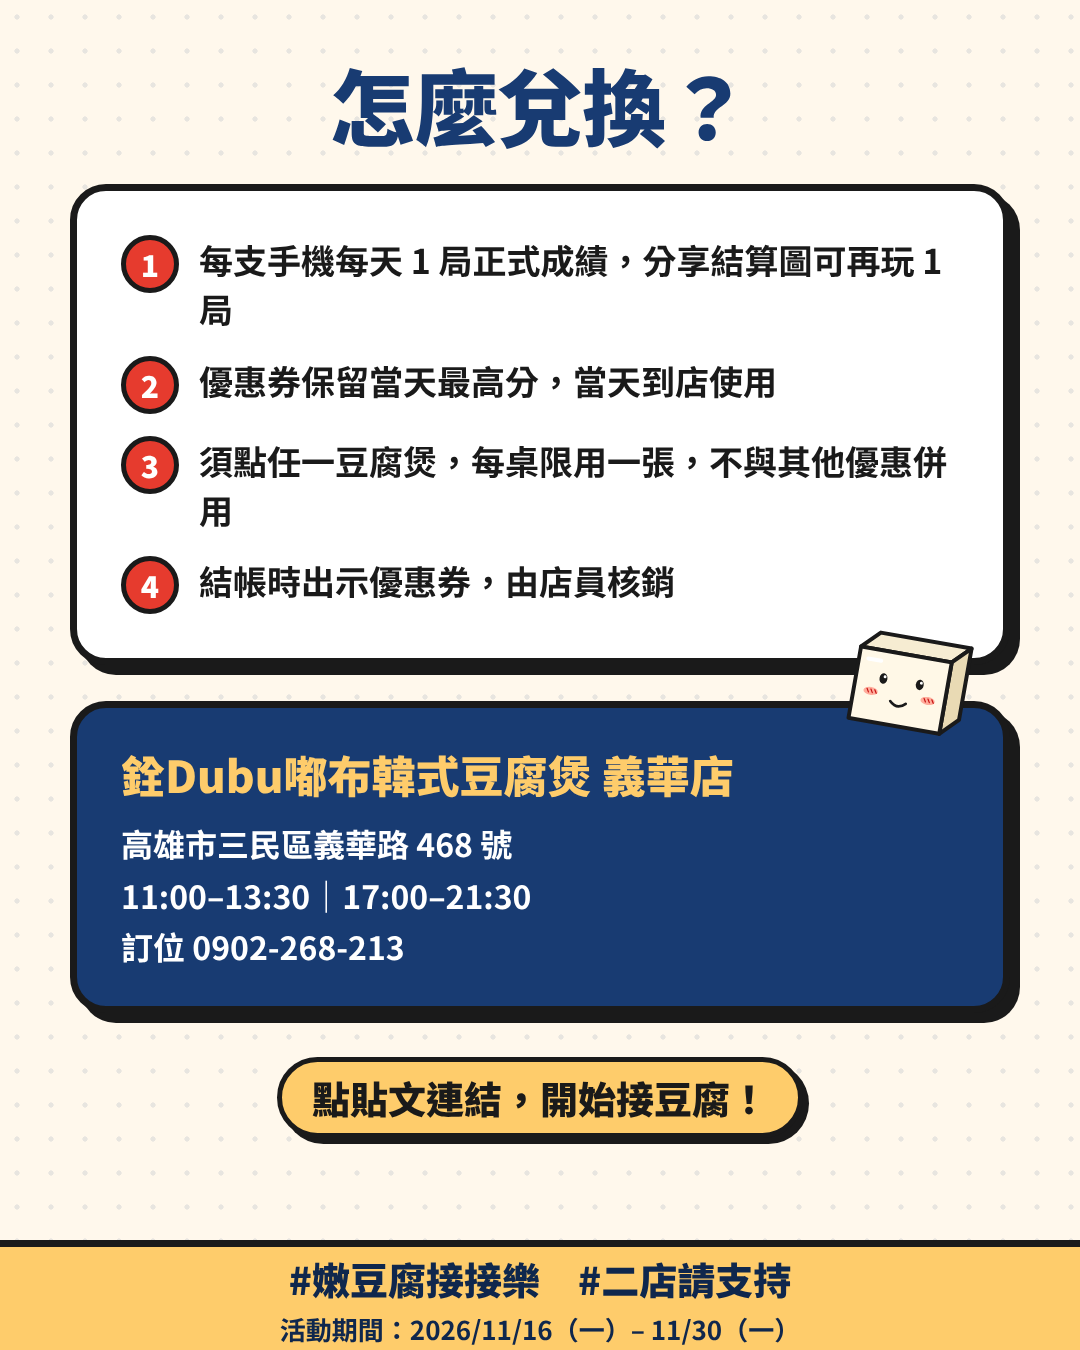
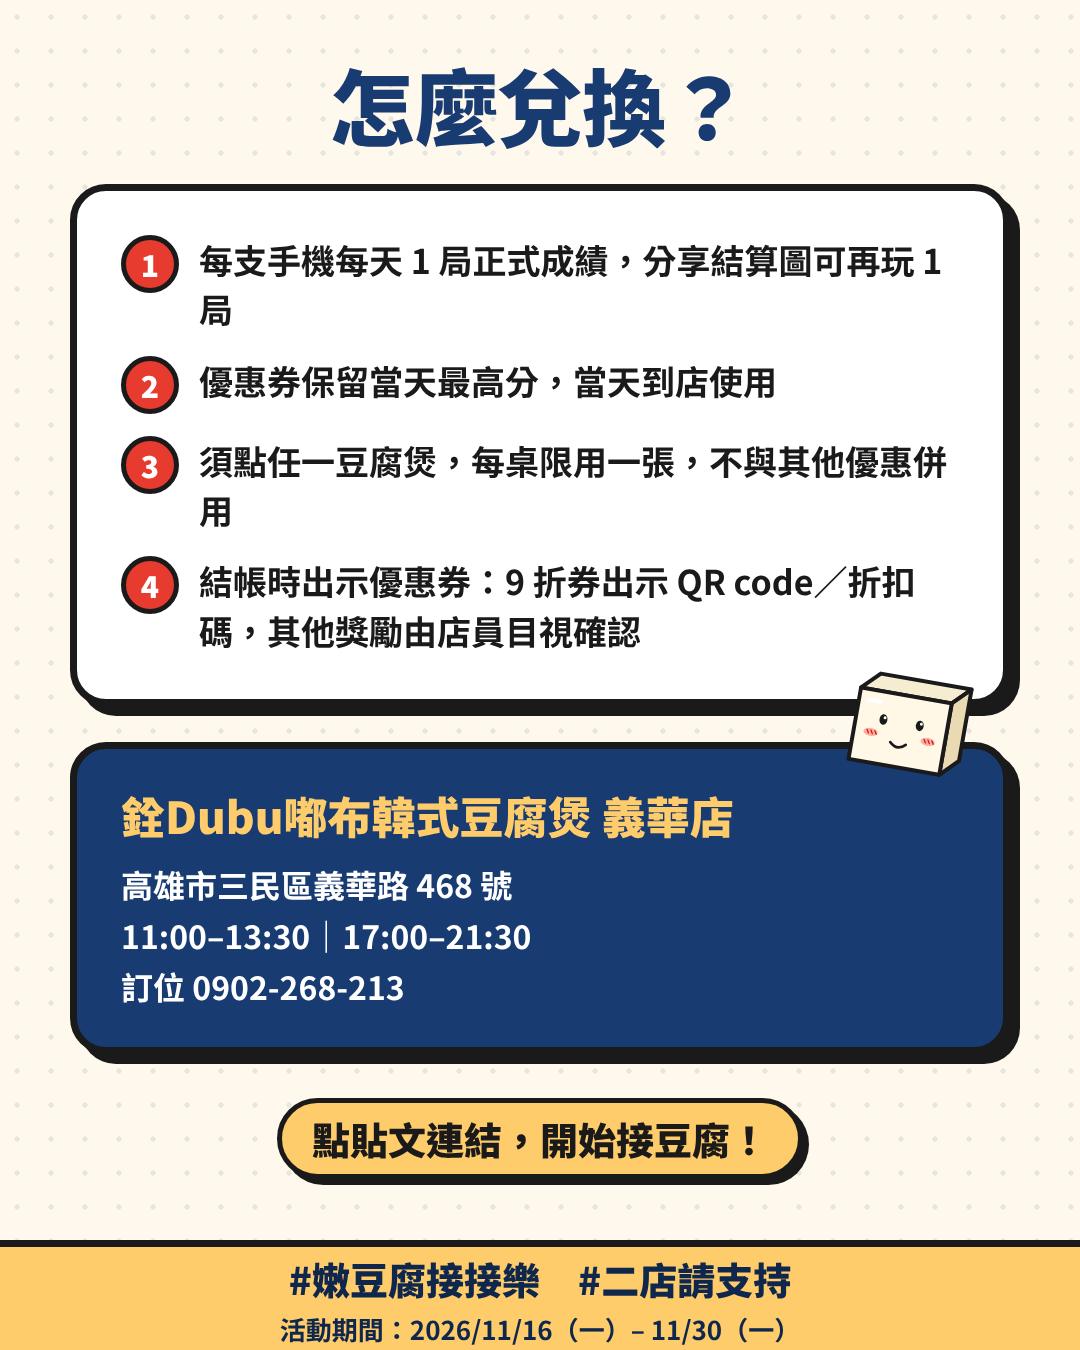
嫩豆腐接接樂：最高獎勵門檻改 1700；9 折券顯示 QR＋折扣碼，其餘級距只顯示獎勵品項
Claude-Session: https://claude.ai/code/session_01R1Sp5wUzmXaVmecPxoYTsS

Changed region(s): [[0.0611, 0.4044, 0.9472, 0.9022]]

diff --git a/tofu-catch/index.html b/tofu-catch/index.html
@@ -163,6 +163,8 @@ canvas{position:absolute;left:0;top:0;width:390px;height:844px;display:block}
 .cp .in{border:3px dashed var(--ring-cream);border-radius:var(--radius-md);padding:18px 12px}
 .cp .t{font:700 14px "Noto Sans TC";color:var(--gold-100)}
 .cp .r{font:900 28px/1.25 "Noto Sans TC";color:var(--gold-400);margin:8px 0}
+.cp .verify{display:inline-block;background:var(--ink);color:#fff;border-radius:999px;padding:6px 14px;font:700 14px "Noto Sans TC";margin:10px 0}
+.cp.item .r{font-size:30px}
 .cp .code{display:inline-block;background:#fff;color:var(--ink);border:3px solid var(--ink);border-radius:var(--radius-md);padding:6px 18px;font:900 26px "Noto Sans TC";letter-spacing:.12em;margin:10px 0}
 .cp .qr{display:flex;flex-direction:column;align-items:center;gap:6px;margin:4px 0 10px}.cp .qr img{width:150px;height:150px;background:#fff;border:3px solid var(--ink);border-radius:10px;padding:4px}.cp .qr span{font:700 12px 'Noto Sans TC';color:var(--gold-100)}
 .cp .cap{font:700 12px/1.5 "Noto Sans TC";color:var(--gold-100)}
@@ -232,8 +234,8 @@ canvas{position:absolute;left:0;top:0;width:390px;height:844px;display:block}
       <div><img data-sprite="item-egg" alt=""><span>生雞蛋 <b>0</b><br>蛋液擋畫面 3 秒</span></div>
     </div></div>
     <div class="rbox"><h3>獎勵</h3><table class="tiers">
-      <tr><td>1800 分以上</td><td>義華路豆腐之神｜豆腐煲主餐 9 折（折扣碼）</td></tr>
-      <tr><td>1000–1799 分</td><td>嫩豆腐守護者｜手工小菜兌換一份</td></tr>
+      <tr><td>1700 分以上</td><td>義華路豆腐之神｜豆腐煲主餐 9 折（QR code＋折扣碼）</td></tr>
+      <tr><td>1000–1699 分</td><td>嫩豆腐守護者｜手工小菜兌換一份</td></tr>
       <tr><td>500–999 分</td><td>實習接豆工｜韓國拉麵加購免費</td></tr>
       <tr><td>0–499 分</td><td>豆腐殺手｜韓國拉麵加購免費＋老闆手寫道歉信</td></tr>
     </table></div>
@@ -289,6 +291,7 @@ canvas{position:absolute;left:0;top:0;width:390px;height:844px;display:block}
         <div class="r" id="cpReward">—</div>
         <div class="t" id="cpRank">—</div>
         <div class="code" id="cpCode">——————</div>
+        <div class="verify hidden" id="cpVerify">店員目視確認獎勵品項即可兌換</div>
         <div id="cpQr" class="qr hidden"><img alt="9 折折扣碼 QR code" id="cpQrImg"><span>結帳時出示，店員掃描或輸入折扣碼</span></div>
         <div class="cap">限義華店｜須點任一豆腐煲｜每桌限用一張<br>高雄市三民區義華路 468 號<br>11:00–13:30、17:00–21:30</div>
       </div>
@@ -461,7 +464,7 @@ const LINES = {
   cheer: ['대박!', '맛있다!', '오오오!'],
 };
 const RANKS = [
-  {min: 1800, name: '義華路豆腐之神', sub: '你的手比嫩豆腐還溫柔。', reward: '豆腐煲主餐 9 折', img: 'tofu-perfect', fixedCode: true},
+  {min: 1700, name: '義華路豆腐之神', sub: '你的手比嫩豆腐還溫柔。', reward: '豆腐煲主餐 9 折', img: 'tofu-perfect', fixedCode: true},
   {min: 1000, name: '嫩豆腐守護者',   sub: '豆腐們都很安心。',       reward: '手工小菜兌換一份', img: 'tofu-perfect'},
   {min: 500,  name: '實習接豆工',     sub: '還在學習溫柔的路上。',   reward: '韓國拉麵加購免費', img: 'tofu-barely'},
   {min: 0,    name: '豆腐殺手',       sub: '老闆已經哭到脫水了。',   reward: '韓國拉麵加購免費＋老闆手寫道歉信', img: 'tofu-ghost'},
@@ -764,12 +767,11 @@ function endGame(fainted) {
   if (counted) {
     day.counted++;
     const c = day.coupon;
-    if (!c || (!c.redeemed && G.score > c.score)) day.coupon = {score: G.score, rank: rank.name, reward: rank.reward, code: rank.fixedCode ? DISCOUNT_CODE : (c && !c.redeemed && c.code !== DISCOUNT_CODE ? c.code : makeCode()), fixed: !!rank.fixedCode, redeemed: false};
+    if (!c || (!c.redeemed && G.score > c.score)) day.coupon = {score: G.score, redeemed: false};
     save();
   }
   if (fainted) { burstMeter(); SFX.broken(); buzz([60, 40, 120]); setTimeout(() => { SFX.faint(); speak('bossFaint', true); $('hud').classList.remove('on'); show('faint'); }, 1100); } else showResult();
 }
-function makeCode() { const a = 'ABCDEFGHJKLMNPQRSTUVWXYZ23456789'; let s = ''; for (let i = 0; i < 6; i++) s += a[Math.floor(Math.random() * a.length)]; return s; }
 function showResult() {
   const r = lastResult;
   $('rank').textContent = r.rank.name; $('rankSub').textContent = r.rank.sub; $('rankImg').src = URL_OF[r.rank.img];
@@ -789,7 +791,7 @@ function showResult() {
 /* ---------- coupon ---------- */
 function showCoupon() {
   const c = day.coupon; if (!c) return;
-  $('cpDate').textContent = `優惠券｜${day.date}`; $('cpReward').textContent = c.reward; $('cpRank').textContent = `${c.rank}・${c.score} 分`; $('cpCode').textContent = c.code; $('cpQr').classList.toggle('hidden', !c.fixed); if (c.fixed) $('cpQrImg').src = QR_URL;
+  $('cpDate').textContent = `優惠券｜${day.date}`; const rk = RANKS.find(r => c.score >= r.min), top = !!rk.fixedCode; $('cpReward').textContent = rk.reward; $('cpRank').textContent = `${rk.name}・${c.score} 分`; $('cpCode').textContent = DISCOUNT_CODE; $('cpCode').classList.toggle('hidden', !top); $('cpQr').classList.toggle('hidden', !top); if (top) $('cpQrImg').src = QR_URL; $('cpVerify').classList.toggle('hidden', top); $('cp').classList.toggle('item', !top);
   $('cp').classList.toggle('used', !!c.redeemed); $('redeem').disabled = !!c.redeemed; $('redeem').querySelector('span').textContent = c.redeemed ? '已兌換' : '店員核銷（長按 3 秒）';
   show('coupon');
 }

diff --git a/README.md b/README.md
@@ -17,6 +17,6 @@
 ## 嫩豆腐接接樂 上線前待辦
 
 - 活動期間 2026/11/16–11/30（`EVENT_START`／`EVENT_END`），期間外只能試玩、不發券；網址加 `?test=1` 可在期間外測試發券。
-- 1800 分以上發 9 折固定折扣碼 `8FNSP`（findpos 店號 3818），券面附 QR code。
+- 1700 分以上發 9 折固定折扣碼 `8FNSP`（findpos 店號 3818），券面附 QR code。其餘級距券面只顯示獎勵品項，由店員目視確認。
 - 錄製的語音檔填進 `VOICE_CLIPS`。
 - 目前優惠券紀錄只存在玩家手機，正式上線建議接後端資料庫記錄發券與核銷。
